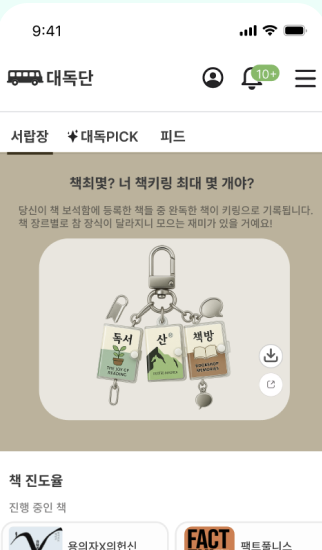
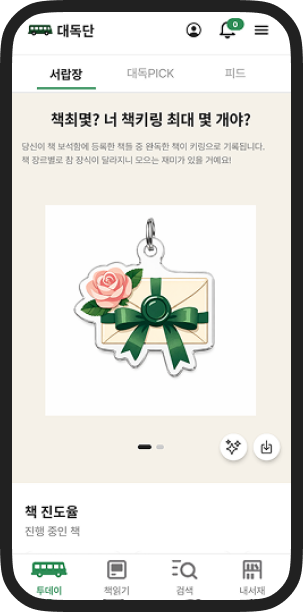
fix: 서비스 소개 슬라이드·스플래시 통일 및 설정에서 재열람 추가
서비스 소개 7장 목업 이미지/레이아웃(contain) 갱신, AppLaunchSplash 단일 표시로 스플래시 전환 개선, 설정에 서비스 소개 다시 보기 메뉴 추가.

diff --git a/src/components/intro/ServiceIntroScreen.tsx b/src/components/intro/ServiceIntroScreen.tsx
@@ -29,7 +29,12 @@ const COLORS = {
   close: '#4A5D52',
 };
 
-export function ServiceIntroScreen() {
+type ServiceIntroScreenProps = {
+  /** settings에서 진입 시 닫기/완료하면 이전 화면으로 복귀 */
+  exitMode?: 'login' | 'back';
+};
+
+export function ServiceIntroScreen({ exitMode = 'login' }: ServiceIntroScreenProps) {
   const router = useRouter();
   const insets = useSafeAreaInsets();
   const listRef = useRef<FlatList<ServiceIntroSlide>>(null);
@@ -44,8 +49,12 @@ export function ServiceIntroScreen() {
   const goToLogin = useCallback(() => {
     if (hasNavigatedRef.current) return;
     hasNavigatedRef.current = true;
+    if (exitMode === 'back') {
+      router.back();
+      return;
+    }
     router.replace(LOGIN_ROUTE);
-  }, [router]);
+  }, [router, exitMode]);
 
   const isFirstSlide = activeIndex === 0;
   const isLastSlide = activeIndex === totalSlides - 1;
@@ -62,33 +71,68 @@ export function ServiceIntroScreen() {
     setScrollOffsetX(Math.min(Math.max(offsetX, 0), maxOffset));
   };
 
-  const renderSlide = ({ item }: { item: ServiceIntroSlide }) => (
-    <View style={[styles.slide, { width: SCREEN_W }]}>
-      <View style={styles.textBlock}>
-        <Text style={styles.title}>{item.title}</Text>
-        <Text style={styles.description}>{item.description}</Text>
-      </View>
+  const renderSlide = ({ item }: { item: ServiceIntroSlide }) => {
+    const resizeMode = item.mockupResizeMode ?? 'cover';
+    const showFullImage = resizeMode === 'contain';
+    const asset = showFullImage ? Image.resolveAssetSource(item.image) : null;
+    const naturalAspect =
+      asset?.width && asset?.height ? asset.width / asset.height : 9 / 19.5;
 
-      <View style={styles.mockupArea}>
-        <View
-          style={[
-            styles.mockupWrap,
-            item.mockupHorizontalInset != null && {
-              marginHorizontal: item.mockupHorizontalInset,
-            },
-            item.mockupBottomInset != null && {
-              marginBottom: item.mockupBottomInset,
-            },
-            item.mockupHeightRatio != null && {
-              flex: 0,
-              height: SCREEN_H * item.mockupHeightRatio,
-            },
-          ]}>
-          <Image source={item.image} style={styles.mockupImage} resizeMode="cover" />
+    let containMockupSize: { width: number; height: number } | null = null;
+    if (showFullImage) {
+      const widthRatio = item.mockupWidthRatio ?? 0.72;
+      const maxHeightRatio = item.mockupMaxHeightRatio ?? 0.48;
+      let width = SCREEN_W * widthRatio;
+      let height = width / naturalAspect;
+      const maxHeight = SCREEN_H * maxHeightRatio;
+      if (height > maxHeight) {
+        height = maxHeight;
+        width = height * naturalAspect;
+      }
+      containMockupSize = { width, height };
+    }
+
+    return (
+      <View style={[styles.slide, { width: SCREEN_W }]}>
+        <View style={styles.textBlock}>
+          <Text style={styles.title}>{item.title}</Text>
+          <Text style={styles.description}>{item.description}</Text>
+        </View>
+
+        <View style={styles.mockupArea}>
+          {showFullImage && containMockupSize ? (
+            <View
+              style={[
+                styles.containMockup,
+                {
+                  width: containMockupSize.width,
+                  height: containMockupSize.height,
+                },
+              ]}>
+              <Image source={item.image} style={styles.containMockupImage} resizeMode="contain" />
+            </View>
+          ) : (
+            <View
+              style={[
+                styles.mockupWrap,
+                item.mockupHorizontalInset != null && {
+                  marginHorizontal: item.mockupHorizontalInset,
+                },
+                item.mockupBottomInset != null && {
+                  marginBottom: item.mockupBottomInset,
+                },
+                item.mockupHeightRatio != null && {
+                  flex: 0,
+                  height: SCREEN_H * item.mockupHeightRatio,
+                },
+              ]}>
+              <Image source={item.image} style={styles.mockupImage} resizeMode="cover" />
+            </View>
+          )}
         </View>
       </View>
-    </View>
-  );
+    );
+  };
 
   return (
     <View style={[styles.root, { paddingTop: insets.top, paddingBottom: insets.bottom }]}>
@@ -103,7 +147,7 @@ export function ServiceIntroScreen() {
               onPress={goToLogin}
               hitSlop={12}
               accessibilityRole="button"
-              accessibilityLabel="소개 건너뛰기">
+              accessibilityLabel={exitMode === 'back' ? '서비스 소개 닫기' : '소개 건너뛰기'}>
               <Ionicons name="close" size={26} color={COLORS.close} />
             </Pressable>
           ) : isLastSlide ? (
@@ -112,7 +156,7 @@ export function ServiceIntroScreen() {
               onPress={goToLogin}
               hitSlop={12}
               accessibilityRole="button"
-              accessibilityLabel="로그인으로 이동">
+              accessibilityLabel={exitMode === 'back' ? '서비스 소개 닫기' : '로그인으로 이동'}>
               <Ionicons name="arrow-forward" size={26} color={COLORS.close} />
             </Pressable>
           ) : (
@@ -122,7 +166,7 @@ export function ServiceIntroScreen() {
       </View>
 
       <FlatList
-        key={`intro-slides-v${SERVICE_INTRO_SLIDES.length}`}
+        key={`intro-slides-v${SERVICE_INTRO_SLIDES.length}-w${SERVICE_INTRO_SLIDES[0]?.mockupWidthRatio ?? 1}`}
         ref={listRef}
         data={SERVICE_INTRO_SLIDES}
         extraData={activeIndex}
@@ -206,11 +250,20 @@ const styles = StyleSheet.create({
   mockupArea: {
     flex: 1,
     justifyContent: 'flex-end',
+    alignItems: 'center',
     paddingTop: 12,
+  },
+  containMockup: {
+    overflow: 'hidden',
+  },
+  containMockupImage: {
+    width: '100%',
+    height: '100%',
   },
   mockupWrap: {
     flex: 1,
     position: 'relative',
+    alignSelf: 'stretch',
     borderTopLeftRadius: 28,
     borderTopRightRadius: 28,
     backgroundColor: COLORS.mockupBg,

diff --git a/src/components/intro/serviceIntroSlides.ts b/src/components/intro/serviceIntroSlides.ts
@@ -11,6 +11,12 @@ export type ServiceIntroSlide = {
   mockupBottomInset?: number;
   /** 화면 높이 대비 목업 카드 높이 비율 (0~1) */
   mockupHeightRatio?: number;
+  /** 목업 이미지 리사이즈 모드 */
+  mockupResizeMode?: 'cover' | 'contain';
+  /** contain 모드일 때 화면 너비 대비 이미지 너비 비율 (0~1) */
+  mockupWidthRatio?: number;
+  /** contain 모드일 때 화면 높이 대비 이미지 최대 높이 비율 (0~1) */
+  mockupMaxHeightRatio?: number;
 };
 
 /** 서비스 소개 하단 목업 — 사용자 제공 앱 화면 캡처 */
@@ -29,18 +35,20 @@ export const SERVICE_INTRO_SLIDES: ServiceIntroSlide[] = [
     description:
       '끝까지 다 읽은 책이 한 권씩 쌓여 당신만의 특별한 북키링을 만들어 줍니다',
     image: INTRO_MOCKUP_IMAGE,
-    mockupHorizontalInset: 36,
-    mockupBottomInset: 16,
-    mockupHeightRatio: 0.6,
+    mockupBottomInset: 0,
+    mockupResizeMode: 'contain',
+    mockupWidthRatio: 0.75,
+    mockupMaxHeightRatio: 0.7,
   },
   {
     id: 'book-progress',
     title: '읽은 책이 나만의 책장이 되다',
     description: '읽고 있거나 읽을 책을 추가하고 \n독서를 시작해 보세요',
     image: BOOKSHELF_MOCKUP_IMAGE,
-    mockupHorizontalInset: 36,
-    mockupBottomInset: 16,
-    mockupHeightRatio: 0.6,
+    mockupBottomInset: 0,
+    mockupResizeMode: 'contain',
+    mockupWidthRatio: 0.75,
+    mockupMaxHeightRatio: 0.7,
   },
   {
     id: 'reading-commute',
@@ -48,9 +56,10 @@ export const SERVICE_INTRO_SLIDES: ServiceIntroSlide[] = [
     description:
       '목적지까지 가는 동안 현재 위치와 이동 알림을 \n제공해 안전하고 꾸준한 독서를 도와요.',
     image: READING_SESSION_MOCKUP_IMAGE,
-    mockupHorizontalInset: 36,
-    mockupBottomInset: 16,
-    mockupHeightRatio: 0.6,
+    mockupBottomInset: 0,
+    mockupResizeMode: 'contain',
+    mockupWidthRatio: 0.75,
+    mockupMaxHeightRatio: 0.7,
   },
   {
     id: 'reading-timer',
@@ -58,9 +67,10 @@ export const SERVICE_INTRO_SLIDES: ServiceIntroSlide[] = [
     description:
       '남은 시간과 목표 페이지를 확인하며 집중력을 \n유지해 독서 습관을 만들 수 있어요.',
     image: READING_TIMER_MOCKUP_IMAGE,
-    mockupHorizontalInset: 36,
-    mockupBottomInset: 16,
-    mockupHeightRatio: 0.6,
+    mockupBottomInset: 0,
+    mockupResizeMode: 'contain',
+    mockupWidthRatio: 0.75,
+    mockupMaxHeightRatio: 0.7,
   },
   {
     id: 'reading-record',
@@ -68,9 +78,10 @@ export const SERVICE_INTRO_SLIDES: ServiceIntroSlide[] = [
     description:
       '완독한 책의 독서 기간과 느낀 점을 기록하며 책을 읽는 동안 떠오른 생각과 감정이 당신만의 이야기로 남아요.',
     image: READING_RECORD_MOCKUP_IMAGE,
-    mockupHorizontalInset: 36,
-    mockupBottomInset: 16,
-    mockupHeightRatio: 0.6,
+    mockupBottomInset: 0,
+    mockupResizeMode: 'contain',
+    mockupWidthRatio: 0.75,
+    mockupMaxHeightRatio: 0.7,
   },
   {
     id: 'reading-feed',
@@ -78,9 +89,10 @@ export const SERVICE_INTRO_SLIDES: ServiceIntroSlide[] = [
     description:
       '읽은 책에 대한 생각을 공유하고 다른 사람들의 이야기도 만나보세요. 함께 읽을수록 독서는 더 즐거워져요.',
     image: FEED_MOCKUP_IMAGE,
-    mockupHorizontalInset: 36,
-    mockupBottomInset: 16,
-    mockupHeightRatio: 0.6,
+    mockupBottomInset: 0,
+    mockupResizeMode: 'contain',
+    mockupWidthRatio: 0.75,
+    mockupMaxHeightRatio: 0.7,
   },
   {
     id: 'book-pick',
@@ -88,8 +100,9 @@ export const SERVICE_INTRO_SLIDES: ServiceIntroSlide[] = [
     description:
       '영상과 추천 콘텐츠를 통해 새로운 책을 발견해 보세요. 취향에 맞는 다음 책을 쉽고 재미있게 찾을 수 있어요.',
     image: BOOKPICK_MOCKUP_IMAGE,
-    mockupHorizontalInset: 36,
-    mockupBottomInset: 16,
-    mockupHeightRatio: 0.6,
+    mockupBottomInset: 0,
+    mockupResizeMode: 'contain',
+    mockupWidthRatio: 0.75,
+    mockupMaxHeightRatio: 0.7,
   },
 ];

diff --git a/app/SettingsScreen.tsx b/app/SettingsScreen.tsx
@@ -29,9 +29,11 @@ type MenuItem = {
     | '/SettingsAppInfoScreen'
     | '/OtherScreen'
     | '/SettingsDeleteAccountScreen'
-    | '/AdminDashboardScreen';
+    | '/AdminDashboardScreen'
+    | '/intro';
   danger?: boolean;
   adminOnly?: boolean;
+  introFromSettings?: boolean;
 };
 
 const MENU_ITEMS: MenuItem[] = [
@@ -58,6 +60,13 @@ const MENU_ITEMS: MenuItem[] = [
     subtitle: '설치된 앱 버전과 업데이트 정보를 확인해요.',
     icon: 'information-circle-outline',
     route: '/SettingsAppInfoScreen',
+  },
+  {
+    title: '서비스 소개 다시 보기',
+    subtitle: '대독단 서비스 소개 슬라이드를 다시 확인해요.',
+    icon: 'images-outline',
+    route: '/intro',
+    introFromSettings: true,
   },
   {
     title: '대독사전',
@@ -126,6 +135,10 @@ export default function SettingsScreen() {
                 onPress={() => {
                   if (item.route === '/AdminDashboardScreen') {
                     router.replace('/AdminDashboardScreen');
+                    return;
+                  }
+                  if (item.introFromSettings) {
+                    router.push({ pathname: '/intro', params: { from: 'settings' } });
                     return;
                   }
                   router.push(item.route);

diff --git a/src/components/splash/AppLaunchSplash.tsx b/src/components/splash/AppLaunchSplash.tsx
@@ -1,5 +1,6 @@
-import React from 'react';
+import React, { useRef } from 'react';
 import { Image, StyleSheet, View } from 'react-native';
+import * as SplashScreen from 'expo-splash-screen';
 import { useSafeAreaInsets } from 'react-native-safe-area-context';
 
 import { AppText } from '@/src/components/ui/AppText';
@@ -17,9 +18,18 @@ type AppLaunchSplashProps = {
 
 export function AppLaunchSplash({ tagline = '출퇴근을 독서와 함께' }: AppLaunchSplashProps) {
   const insets = useSafeAreaInsets();
+  const didHideNativeRef = useRef(false);
+
+  const hideNativeSplash = () => {
+    if (didHideNativeRef.current) return;
+    didHideNativeRef.current = true;
+    void SplashScreen.hideAsync().catch(() => {});
+  };
 
   return (
-    <View style={[styles.root, { paddingTop: insets.top, paddingBottom: insets.bottom }]}>
+    <View
+      style={[styles.root, { paddingTop: insets.top, paddingBottom: insets.bottom }]}
+      onLayout={hideNativeSplash}>
       <View style={styles.content}>
         <Image source={SPLASH_LOGO} style={styles.logo} resizeMode="contain" accessibilityLabel="대독단" />
         <AppText variant="title" weight="bold" style={styles.tagline}>

diff --git a/app/index.tsx b/app/index.tsx
@@ -1,7 +1,6 @@
 // app/index.tsx — 앱 실행 후 첫 화면 (스플래시)
 
 import { useRouter, type Href } from 'expo-router';
-import * as SplashScreen from 'expo-splash-screen';
 import { useEffect } from 'react';
 
 import { AppLaunchSplash } from '@/src/components/splash/AppLaunchSplash';
@@ -65,10 +64,9 @@ export default function SplashRoute() {
 
         if (cancelled) return;
         router.replace(route);
-      } finally {
-        if (!cancelled) {
-          await SplashScreen.hideAsync();
-        }
+      } catch (e) {
+        console.warn('[SPLASH] bootstrap failed:', e);
+        if (!cancelled) router.replace('/intro');
       }
     };
 

diff --git a/app/intro.tsx b/app/intro.tsx
@@ -1,5 +1,10 @@
+import { useLocalSearchParams } from 'expo-router';
+
 import { ServiceIntroScreen } from '@/src/components/intro/ServiceIntroScreen';
 
 export default function IntroRoute() {
-  return <ServiceIntroScreen />;
+  const params = useLocalSearchParams<{ from?: string | string[] }>();
+  const from = Array.isArray(params.from) ? params.from[0] : params.from;
+
+  return <ServiceIntroScreen exitMode={from === 'settings' ? 'back' : 'login'} />;
 }

diff --git a/app/_layout.tsx b/app/_layout.tsx
@@ -36,6 +36,7 @@ export default function RootLayout() {
     void SystemUI.setBackgroundColorAsync(ROOT_STACK_BG);
   }, []);
 
+  // 폰트 로딩 중에는 네이티브 스플래시(민트 배경)만 유지 → index의 AppLaunchSplash 1회만 표시
   if (!fontsReady) {
     return null;
   }
